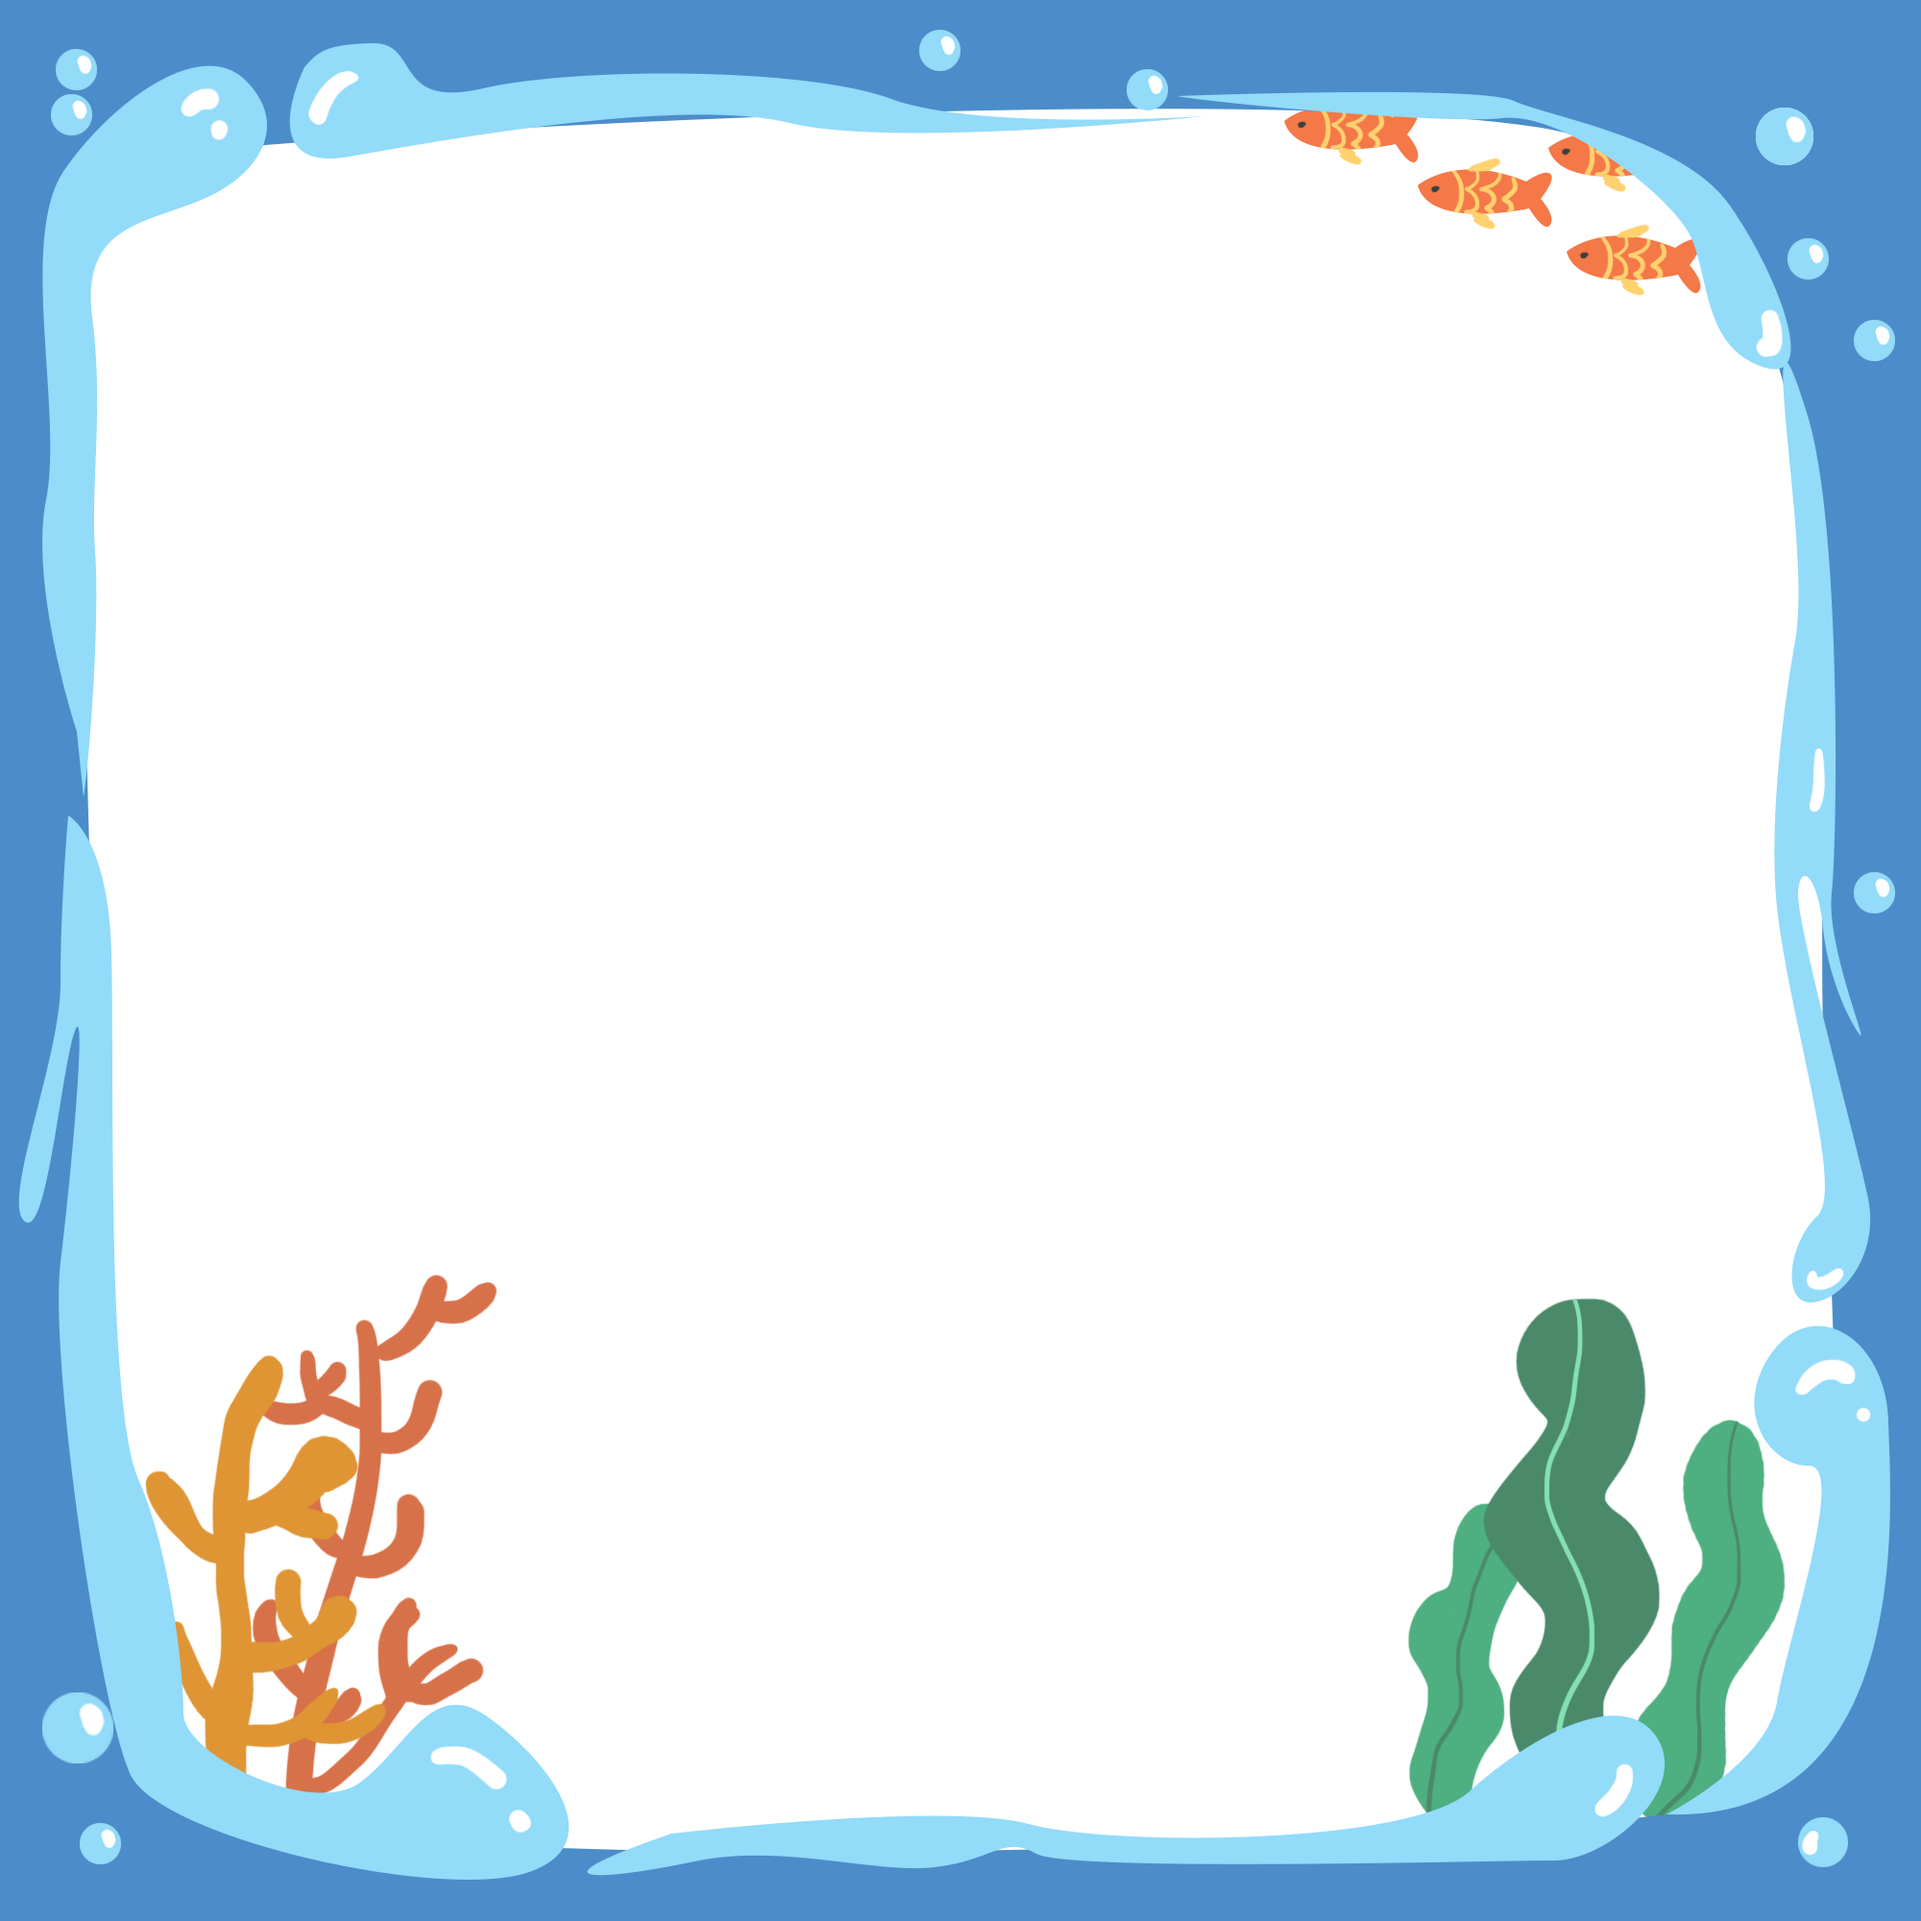
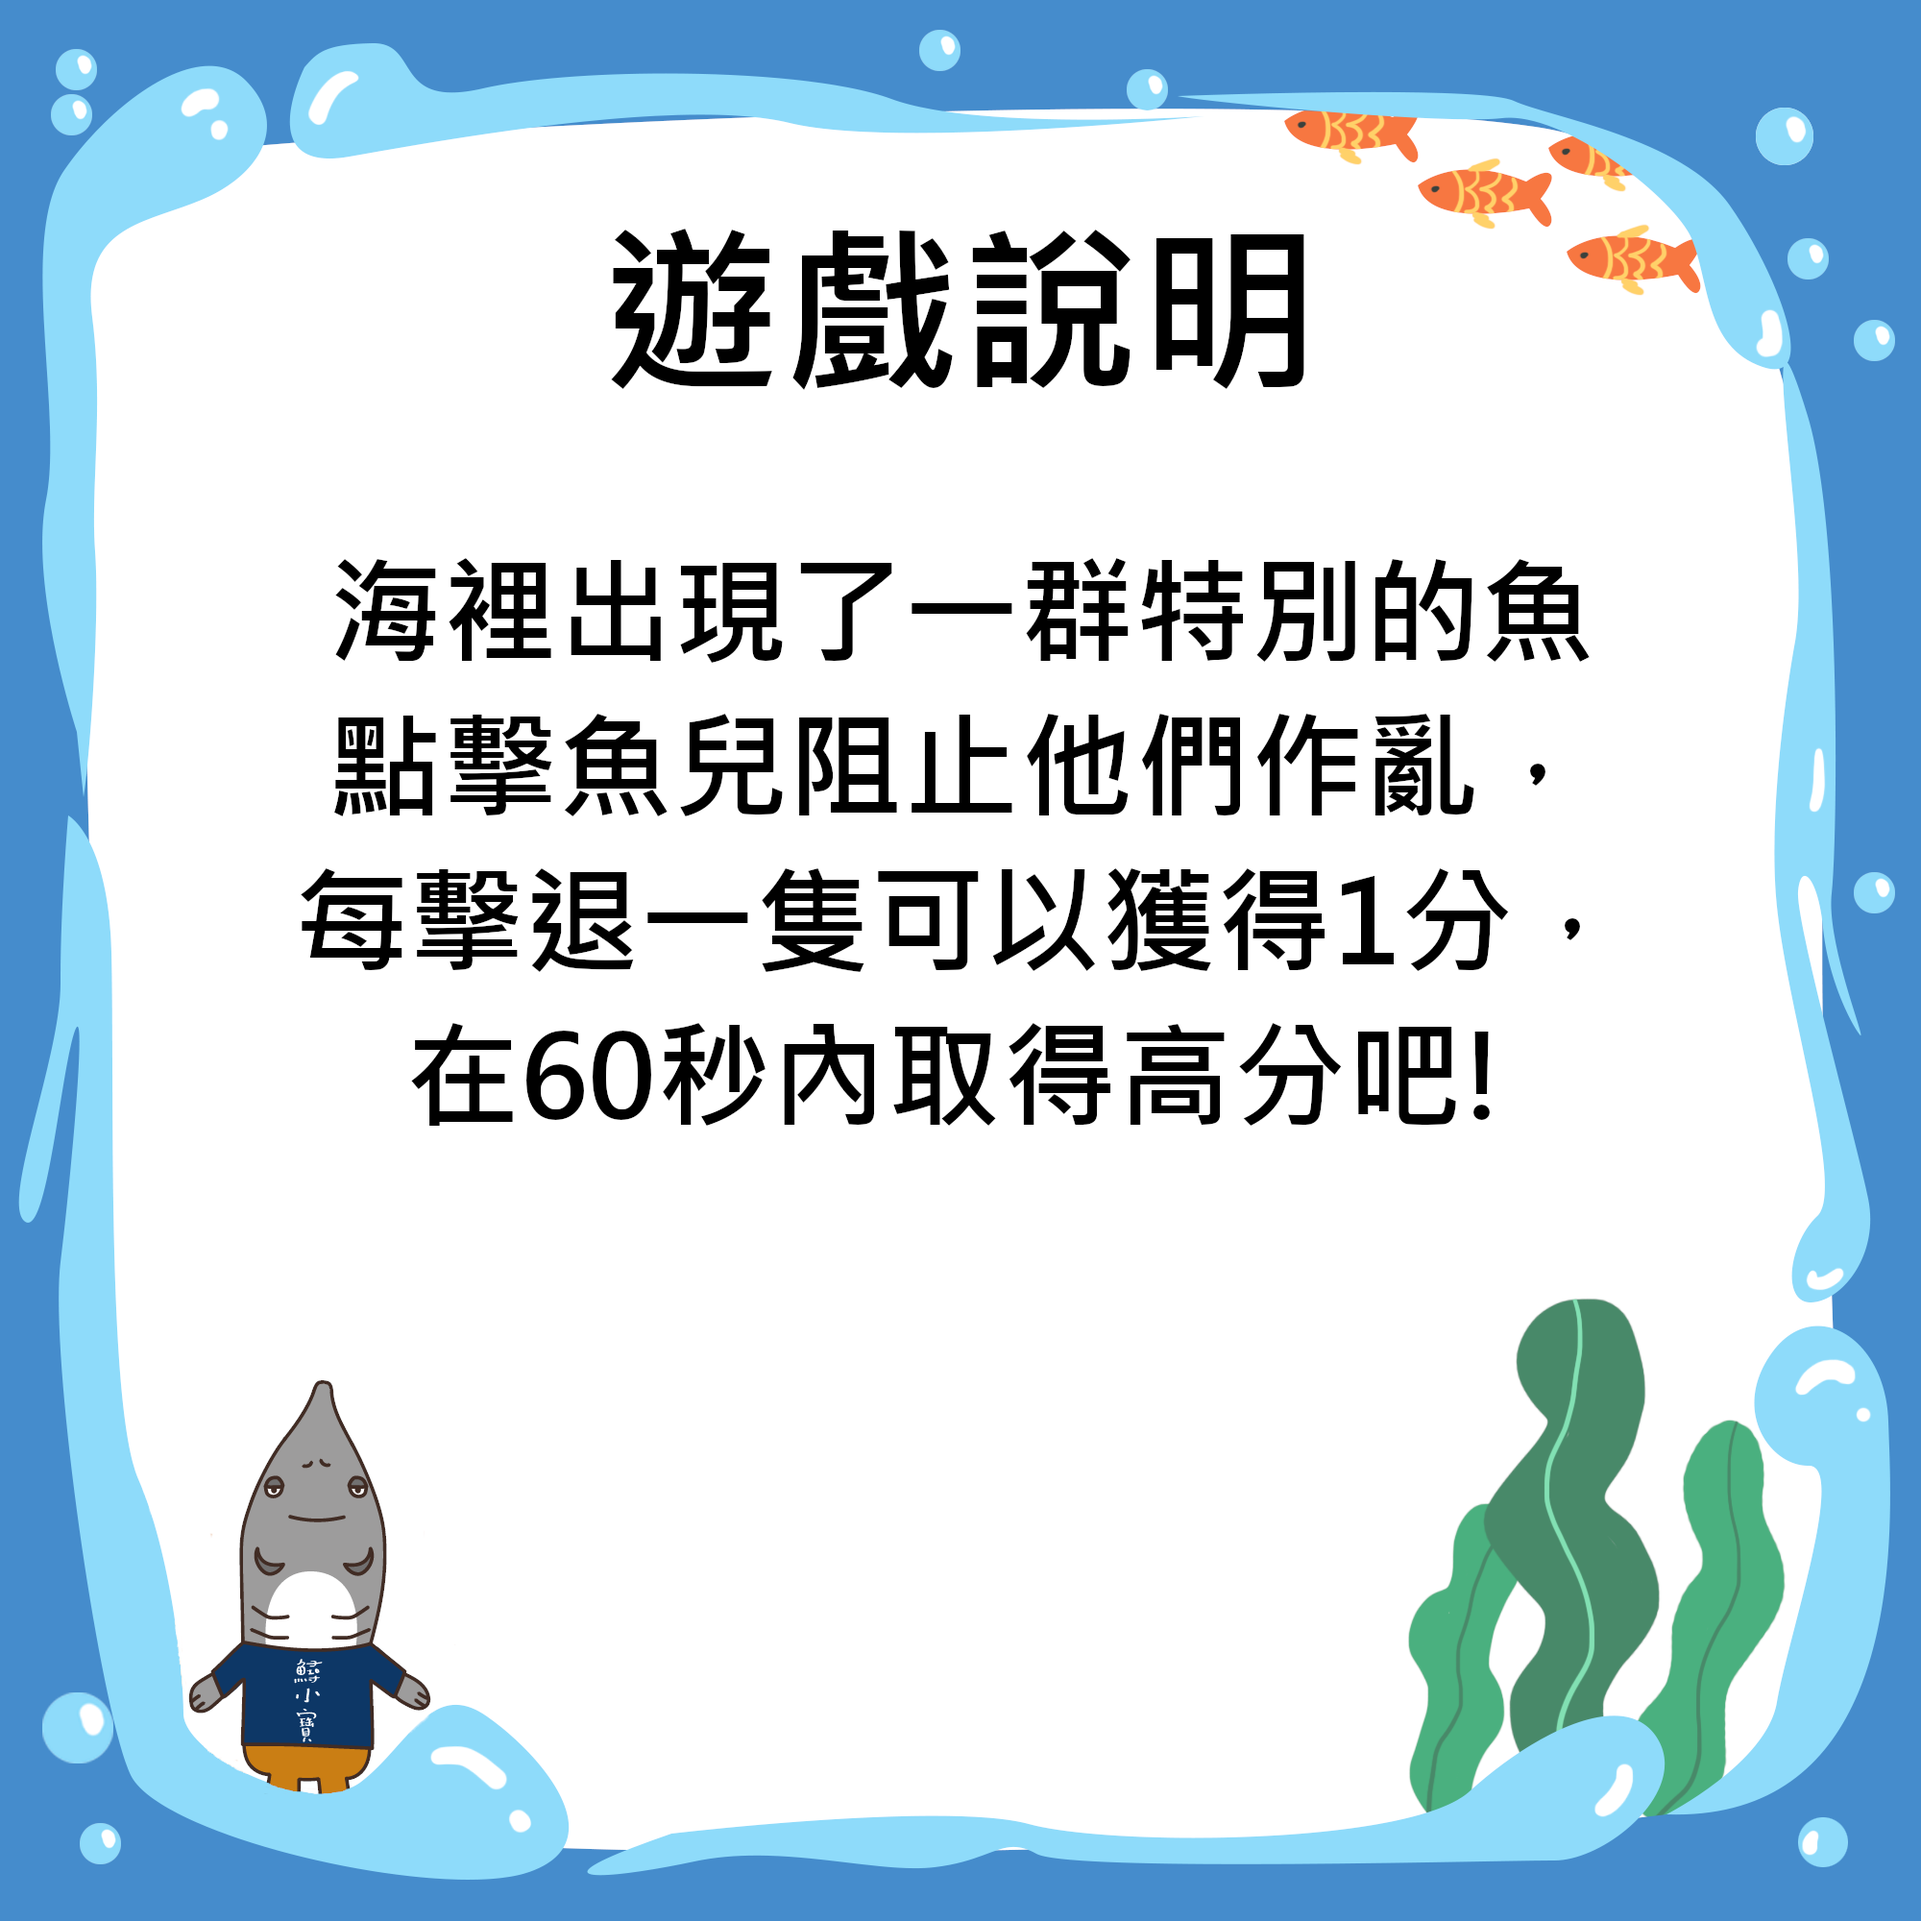
new

diff --git a/ratScore.html b/ratScore.html
@@ -17,10 +17,9 @@
       display: flex;
       justify-content: center;
       align-items: center;
-
-      background-image: url("image/mood2.jpg");  
+      background-image: url("image/rat/marine.png");  
       background-size:100% 100%;
-      position: fixed;
+      position: absolute;
       top: 50%;
       left: 50%;
       transform: translate(-50%, -50%);
@@ -28,12 +27,14 @@
       padding: 20px;
       border: 1px solid #ccc;
       z-index: 9999;
-      width: 95%; /* 調整寬度 */
-      height: 70%; /* 調整高度 */
+      width: 90vw; /* 調整寬度 */
+      height: 90vw; /* 調整高度 */
       border-width:3px;
       border-color:black;
       border-radius: 10px;
-      overflow: scroll;
+
+      max-width: 600px;
+      max-height: 600px;
     }
 
     .score-container {
@@ -51,58 +52,7 @@
       padding: 10px 30px;
     }
 
-    @media (max-width: 800px){
-        body {
-          background-image: url("image/rat/oceanbackgroung.png") ;     
-      background-size: cover;     
-      background-repeat: no-repeat;
-      background-attachment: fixed; 
-      background-color: #f8f9fa;
-    }
-
-    .container { 
-      height: 100vh;
-      display: flex;
-      justify-content: center;
-      align-items: center;
-
-      background-image: url("image/rat/marineborder.png");  
-      background-size:100% 100%;
-      position: fixed;
-      top: 50%;
-      left: 50%;
-      transform: translate(-50%, -50%);
-      background-color: rgba(255, 255, 255, 1);
-      padding: 20px;
-      border: 1px solid #ccc;
-      z-index: 9999;
-      width: 95%; /* 調整寬度 */
-      height: 70%; /* 調整高度 */
-      border-width:3px;
-      border-color:black;
-      border-radius: 10px;
-      overflow: scroll;
-    }
-
-    .score-container {
-      text-align: center;
-      width: 100%;
-      height:50%;
-    }
-
-    .score {
-      font-size: 48px;
-      font-weight: bold;
-      margin-bottom: 30px;
-    }
-
-    .btn {
-      font-size: 24px;
-      padding: 10px 30px;
-    }
-      
-    }
-
+   
   </style>
 </head>
 <body>

diff --git a/css/rat.css b/css/rat.css
@@ -1,11 +1,12 @@
 html {
     width: 100vw;
     height: 100vh;
+    align-items:center
   }
 
 body {
     width: 100vw;
-    height: 100vh;
+    height: auto;
     display: inline-flex;
     justify-content: center;
     flex-direction: column;
@@ -40,6 +41,8 @@ body {
     top: auto;
     max-width: 100px;
     max-height: 50px;
+    min-width: 50px;
+    min-height: 25px;
     white-space: nowrap;
     text-overflow: ellipsis; 
     overflow: hidden;
@@ -56,7 +59,7 @@ body {
     background-image: url("../image/rat/marineborder.png");  
     background-size:100% 100%;
     display: none;
-    position: fixed;
+    position: absolute;
     top: 50%;
     left: 50%;
     transform: translate(-50%, -50%);
@@ -68,18 +71,19 @@ body {
     height: 80vw; /* 調整高度 */
     max-width: 500px;
     max-height: 500px;
+    min-width: 300px;
+    min-height: 300px;
     border-width:3px;
     border-color:black;
     border-radius: 10px;
-    overflow: scroll;
+    justify-content: center;
+  }
+  #clsbtn {
+    position: absolute;
+    bottom: 5vh;
+    max-width: 250px;
   }
   
-  .clsbtn {
-    position: absolute;
-    top: 5px;
-    right: 10px;
-    width: 10vw;
-  }
   #ex{
       height: 10vh; 
       width: 10vh;
@@ -95,11 +99,11 @@ body {
     flex-direction: column;
     justify-content: center;
     align-items: center;
-    height: 85%;
+    height: 80%;
   }
   #title{
     width: 40vw;
-    max-width: 400px;
+    max-width: 300px;
     display:flexbox;
   }
 

diff --git a/ratgameusr.html b/ratgameusr.html
@@ -11,23 +11,14 @@
   <script src="script/rat.js"></script>
 </head>
 <body>
-  
-  <div><img src="image/rat/title.png" id="title"></div>
+  <div><img src="image/rat/fishtitle.png" id="title"></div>
   <div>
   <div id="timer">Time:40</div>
   <div id="score">Score:0</div>
   </div>
   <button id="illustrate"  class="btn btn-primary" onclick="showPopup()">說明</button>
   <div class="popup-container" id="popup"  >  
-    <h2 style="font-weight:bold;">遊戲說明</h2>
-    <div id="explain">
-    <p >點擊<img id="ex" src="image\rat\ratgame_13.png">，
-        阻止他們作亂，
-        每擊退一隻可以獲得1分，
-        在60秒內取得高分吧!</p>
-    
-    </div>
-    <button id="clsbtn" class="btn btn-primary" onclick="hidePopup()">知道了</button>
+   <button id="clsbtn" class="btn btn-primary" onclick="hidePopup()">知道了</button>
   </div>
   <table class="game-board" >
     <tr>

diff --git a/script/rat.js b/script/rat.js
@@ -11,6 +11,7 @@
 
     function startGame() 
     {    
+      document.getElementById("start").setAttribute("disabled", "disabled");  
       clearInterval(countdown);   
       document.getElementById("myAudio2").play();
       score = 0;
@@ -64,6 +65,7 @@
           document.getElementById('message').innerHTML="Game over! Your score is "+ score ;
           document.getElementById("myAudio2").pause();
           document.getElementById("myAudio2").currentTime = 0;
+          
           redirectToFinalScore(score);
           // Redirect to the final score page
         }
@@ -109,7 +111,7 @@
     }
     function showPopup() {
       var popup = document.getElementById("popup");
-      popup.style.display = "block";
+      popup.style.display = "flex";
     }
 
     function hidePopup() {
